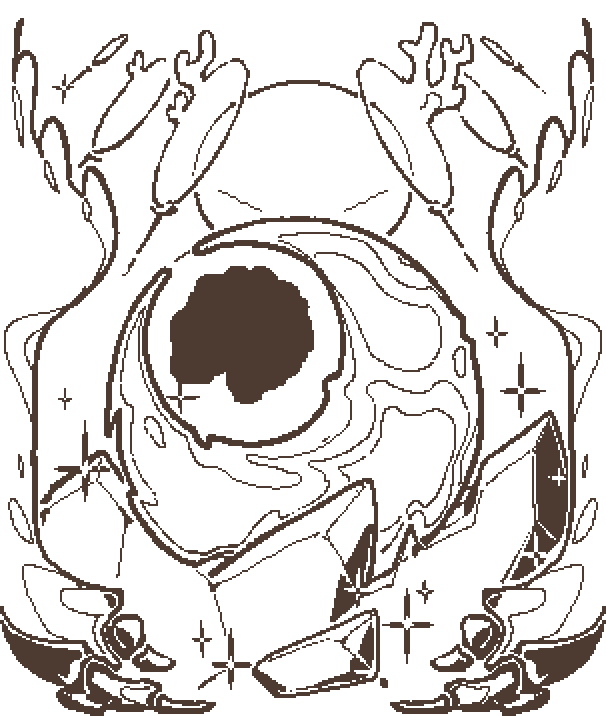
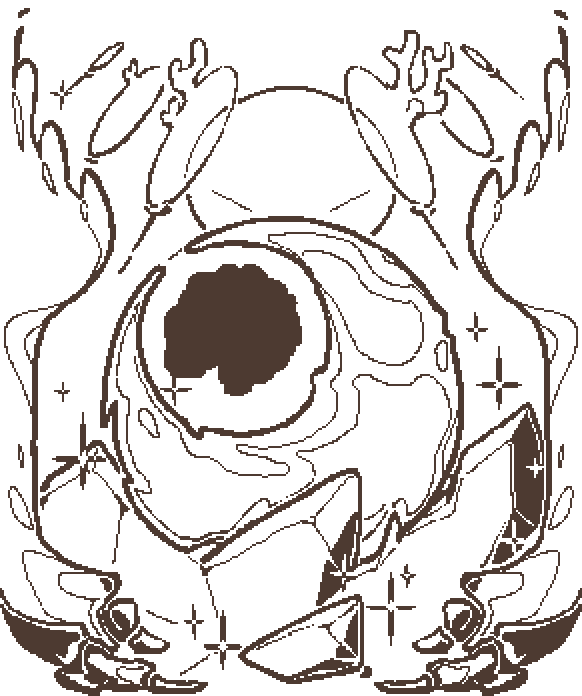
千气象章节

diff --git a/Content/CoraliteNotes/DashBowChapter/DashBowCollect.cs b/Content/CoraliteNotes/DashBowChapter/DashBowCollect.cs
@@ -1,0 +1,129 @@
+using Coralite.Content.Items.Icicle;
+using Coralite.Content.Items.Thunder;
+using Coralite.Content.Items.ThyphionSeries;
+using Coralite.Core;
+using Coralite.Core.Attributes;
+using Coralite.Helpers;
+using Microsoft.Xna.Framework.Graphics;
+using Terraria;
+using Terraria.ModLoader.IO;
+using static Terraria.ModLoader.ModContent;
+
+namespace Coralite.Content.CoraliteNotes.DashBowChapter
+{
+    [AutoLoadTexture(Path = AssetDirectory.NoteWeapons)]
+    public class DashBowCollect : CollectionPage
+    {
+        public static bool[] Unlocks = new bool[(int)DashBows.Count];
+
+        public static ATex Test { get; private set; }
+        //public static ATex LandOfTheLustrousCollectButton { get; private set; }
+        //public static ATex LandOfTheLustrousCollectButtonLight { get; private set; }
+
+        public enum DashBows
+        {
+            Afterglow,
+            TremblingBow,
+            FarAwaySky,
+            IcicleBow,
+            Turbulence,
+            RadiantSun,
+            FullMoon,
+            PlasmaBow,
+            HorizonArc,
+            SeismicWave,
+
+            ReversedFlash,
+            Glaciate,
+            Solunar,
+            Aurora,
+
+            Thyphion,
+            Count,
+        }
+
+        public override void Recalculate()
+        {
+            RemoveAllChildren();
+            AddImages();
+
+            base.Recalculate();
+        }
+
+        public void AddImages()
+        {
+            int y = -400;
+            Vector2 center = new Vector2(PageWidth / 2, PageHeight / 2 - 80);
+
+            NewImage<Afterglow>(center + new Vector2(-16, 310), null
+                , DashBows.Afterglow, CollectImage.LockIconType.Small);
+            NewImage<TremblingBow>(center + new Vector2(152, 285), Condition.DownedEyeOfCthulhu
+                , DashBows.TremblingBow, CollectImage.LockIconType.Small);
+            NewImage<FarAwaySky>(center + new Vector2(-127, 312), Condition.DownedEowOrBoc
+                , DashBows.FarAwaySky, CollectImage.LockIconType.Small);
+            NewImage<IcicleBow>(center + new Vector2(57, 312), Condition.DownedEowOrBoc
+                , DashBows.IcicleBow, CollectImage.LockIconType.Small);
+            NewImage<Turbulence>(center + new Vector2(194, 237), Condition.DownedSkeletron
+                , DashBows.Turbulence, CollectImage.LockIconType.Small);
+            NewImage<RadiantSun>(center + new Vector2(-230, -2), Condition.Hardmode
+                , DashBows.RadiantSun, CollectImage.LockIconType.Small);
+            NewImage<FullMoon>(center + new Vector2(250, -104), Condition.DownedQueenSlime
+                , DashBows.FullMoon, CollectImage.LockIconType.Small);
+            NewImage<PlasmaBow>(center + new Vector2(-208, 254), Condition.DownedMechBossAll
+                , DashBows.PlasmaBow, CollectImage.LockIconType.Small);
+            NewImage<HorizonArc>(center + new Vector2(-160, -52), Condition.DownedPlantera
+                , DashBows.HorizonArc, CollectImage.LockIconType.Small);
+            NewImage<SeismicWave>(center + new Vector2(244, 4), Condition.DownedMartians
+                , DashBows.SeismicWave, CollectImage.LockIconType.Small);
+            NewImage<ReverseFlash>(center + new Vector2(92, -40), Condition.DownedNebulaPillar
+                , DashBows.ReversedFlash, CollectImage.LockIconType.Small);
+            NewImage<Glaciate>(center + new Vector2(92, 58), Condition.DownedNebulaPillar
+                , DashBows.Glaciate, CollectImage.LockIconType.Small);
+            NewImage<Solunar>(center + new Vector2(-100, 208), Condition.DownedMoonLord
+                , DashBows.Solunar);
+            NewImage<Aurora>(center + new Vector2(108, 180), Condition.DownedMoonLord
+                , DashBows.Aurora);
+
+            NewImage<Thyphion>(center+new Vector2(-57,2), CoraliteConditions.DownedNightmarePlantera
+                , DashBows.Thyphion, CollectImage.LockIconType.Big, 1.75f);
+
+            //var button = new CollectButton(LandOfTheLustrousCollectButton, LandOfTheLustrousCollectButtonLight
+            //    , new Vector2(0, -10), ItemType<LandOfTheLustrousRelic>(), Unlocks, CoraliteNoteSystem.RewardType.LandOfTheLustrous);
+            //button.ItemPosOffset = new Vector2(0, -10);
+            //button.SetCenter(new Vector2(PageWidth / 2, 196));
+            //Append(button);
+        }
+
+        public void NewImage<T>(Vector2 pos, Condition condition, DashBows type
+            , CollectImage.LockIconType lockType = CollectImage.LockIconType.Middle, float scale = 1f) where T : ModItem
+        {
+            var button = new CollectImage(ItemType<T>(), condition, Unlocks, (int)type, scale, lockType);
+            button.SetCenter(pos);
+            Append(button);
+        }
+
+        public static void Unlock(DashBows type)
+            => Unlocks[(int)type] = true;
+
+        public static void Save(TagCompound tag)
+        {
+            tag.SaveBools(Unlocks, "DashBowUnlock");
+        }
+
+        public static void Load(TagCompound tag)
+        {
+            tag.LoadBools(Unlocks, "DashBowUnlock");
+        }
+
+        protected override void DrawSelf(SpriteBatch spriteBatch)
+        {
+            Test.Value.QuickCenteredDraw(spriteBatch, Center);
+
+            DrawCollectTip(spriteBatch, Unlocks);
+
+            Vector2 pos = PageTop + new Vector2(0, 132);
+            DrawCollectText(spriteBatch, Unlocks, pos + new Vector2(7, -15));
+            DrawCollectProgress(spriteBatch, Unlocks, pos + new Vector2(0, 15));
+        }
+    }
+}

diff --git a/Content/CoraliteNotes/LandOfTheLustrousChapter/LandOfTheLustrousCollect.cs b/Content/CoraliteNotes/LandOfTheLustrousChapter/LandOfTheLustrousCollect.cs
@@ -52,40 +52,40 @@ namespace Coralite.Content.CoraliteNotes.LandOfTheLustrousChapter
             int y = -400;
             Vector2 center = new Vector2(PageWidth / 2, PageHeight / 2 - 80);
 
-            NewImage<PyropeCrown>(center + new Vector2(-10, 310), null
-                , GemWeapons.PyropeCrown, CollectImage.LockIconType.Small,1.2f);
-            NewImage<AmethystNecklace>(center + new Vector2(164, 285), Condition.DownedEyeOfCthulhu
-                , GemWeapons.AmethystNecklace, CollectImage.LockIconType.Small, 1.2f);
-            NewImage<AquamarineBracelet>(center + new Vector2(-132, 315), Condition.DownedEowOrBoc
-                , GemWeapons.AquamarineBracelet, CollectImage.LockIconType.Small, 1.2f);
-            NewImage<PinkDiamondRose>(center + new Vector2(202, 239), Condition.DownedSkeletron
-                , GemWeapons.PinkDiamondRose, CollectImage.LockIconType.Small, 1.2f);
-            NewImage<ZumurudRing>(center + new Vector2(-244, -6), Condition.Hardmode
+            NewImage<PyropeCrown>(center + new Vector2(-16, 310), null
+                , GemWeapons.PyropeCrown, CollectImage.LockIconType.Small,1.25f);
+            NewImage<AmethystNecklace>(center + new Vector2(152, 285), Condition.DownedEyeOfCthulhu
+                , GemWeapons.AmethystNecklace, CollectImage.LockIconType.Small, 1.3f);
+            NewImage<AquamarineBracelet>(center + new Vector2(-127, 312), Condition.DownedEowOrBoc
+                , GemWeapons.AquamarineBracelet, CollectImage.LockIconType.Small, 1.3f);
+            NewImage<PinkDiamondRose>(center + new Vector2(194, 237), Condition.DownedSkeletron
+                , GemWeapons.PinkDiamondRose, CollectImage.LockIconType.Small, 1.3f);
+            NewImage<ZumurudRing>(center + new Vector2(-230, -2), Condition.Hardmode
                 , GemWeapons.ZumurudRing, CollectImage.LockIconType.Small, 1.3f);
-            NewImage<PearlBrooch>(center + new Vector2(260, -64), Condition.DownedQueenSlime
-                , GemWeapons.PearlBrooch, CollectImage.LockIconType.Small, 1.2f);
-            NewImage<RubyScepter>(center + new Vector2(-216, 254), Condition.DownedMechBossAll
+            NewImage<PearlBrooch>(center + new Vector2(250, -54), Condition.DownedQueenSlime
+                , GemWeapons.PearlBrooch, CollectImage.LockIconType.Small, 1.3f);
+            NewImage<RubyScepter>(center + new Vector2(-208, 254), Condition.DownedMechBossAll
                 , GemWeapons.RubyScepter, CollectImage.LockIconType.Small, 1.2f);
-            NewImage<PeridotTalisman>(center + new Vector2(-270, -60), Condition.DownedPlantera
+            NewImage<PeridotTalisman>(center + new Vector2(-260, -52), Condition.DownedPlantera
                 , GemWeapons.PeridotTalisman, CollectImage.LockIconType.Small, 1.2f);
-            NewImage<SapphireHairpin>(center + new Vector2(252, -7), Condition.DownedMartians
+            NewImage<SapphireHairpin>(center + new Vector2(244, 4), Condition.DownedMartians
                 , GemWeapons.SapphireHairpin, CollectImage.LockIconType.Small, 1.2f);
-            NewImage<TourmalineMonoclastic>(center + new Vector2(98, 54), Condition.DownedNebulaPillar
-                , GemWeapons.TourmalineMonoclastic, CollectImage.LockIconType.Small);
-            NewImage<TopazMirror>(center + new Vector2(-100, 234), Condition.DownedMoonLord
-                , GemWeapons.TopazMirror);
-            NewImage<ZirconGrail>(center + new Vector2(110, 182), Condition.DownedMoonLord
-                , GemWeapons.ZirconGrail);
-            NewImage<Phosphophyllite>(center + new Vector2(12, 388), CoraliteConditions.DownedNightmarePlantera
+            NewImage<TourmalineMonoclastic>(center + new Vector2(92, 58), Condition.DownedNebulaPillar
+                , GemWeapons.TourmalineMonoclastic, CollectImage.LockIconType.Small,1.1f);
+            NewImage<TopazMirror>(center + new Vector2(-100, 228), Condition.DownedMoonLord
+                , GemWeapons.TopazMirror,scale:1.1f);
+            NewImage<ZirconGrail>(center + new Vector2(108, 180), Condition.DownedMoonLord
+                , GemWeapons.ZirconGrail,scale:1.35f);
+            NewImage<Phosphophyllite>(center + new Vector2(12, 382), CoraliteConditions.DownedNightmarePlantera
                 , GemWeapons.Phosphophyllite, CollectImage.LockIconType.Small, 1.3f);
 
-            NewImage<LandOfTheLustrous>(center+new Vector2(-60,56), CoraliteConditions.DownedNightmarePlantera
+            NewImage<LandOfTheLustrous>(center+new Vector2(-57,62), CoraliteConditions.DownedNightmarePlantera
                 , GemWeapons.LandOfTheLustrous, CollectImage.LockIconType.Big, 2);
 
             var button = new CollectButton(LandOfTheLustrousCollectButton, LandOfTheLustrousCollectButtonLight
                 , new Vector2(0, -10), ItemType<LandOfTheLustrousRelic>(), Unlocks, CoraliteNoteSystem.RewardType.LandOfTheLustrous);
             button.ItemPosOffset = new Vector2(0, -10);
-            button.SetCenter(new Vector2(PageWidth / 2, 188));
+            button.SetCenter(new Vector2(PageWidth / 2, 196));
             Append(button);
         }
 
@@ -116,7 +116,7 @@ namespace Coralite.Content.CoraliteNotes.LandOfTheLustrousChapter
 
             DrawCollectTip(spriteBatch, Unlocks);
 
-            Vector2 pos = PageTop + new Vector2(0, 120);
+            Vector2 pos = PageTop + new Vector2(0, 132);
             DrawCollectText(spriteBatch, Unlocks, pos + new Vector2(7, -15));
             DrawCollectProgress(spriteBatch, Unlocks, pos + new Vector2(0, 15));
         }

diff --git a/Content/CoraliteNotes/CoraliteNoteSystem.cs b/Content/CoraliteNotes/CoraliteNoteSystem.cs
@@ -33,6 +33,7 @@ namespace Coralite.Content.CoraliteNotes
             FlyingShield,
             FlowerGun,
             LandOfTheLustrous,
+            DashBow,
 
             Count,
         }
@@ -71,6 +72,7 @@ namespace Coralite.Content.CoraliteNotes
             FlyingShieldChapter.FlyingShieldCollect.Save(tag);
             FlowerGunChapter.FlowerGunCollect.Save(tag);
             LandOfTheLustrousChapter.LandOfTheLustrousCollect.Save(tag);
+            DashBowChapter.DashBowCollect.Save(tag);
         }
 
         public override void OnWorldLoad()
@@ -79,6 +81,7 @@ namespace Coralite.Content.CoraliteNotes
             Array.Fill(FlyingShieldChapter.FlyingShieldCollect.Unlocks, false);
             Array.Fill(FlowerGunChapter.FlowerGunCollect.Unlocks, false);
             Array.Fill(LandOfTheLustrousChapter.LandOfTheLustrousCollect.Unlocks, false);
+            Array.Fill(DashBowChapter.DashBowCollect.Unlocks, false);
         }
 
         public override void LoadWorldData(TagCompound tag)
@@ -87,6 +90,7 @@ namespace Coralite.Content.CoraliteNotes
             FlyingShieldChapter.FlyingShieldCollect.Load(tag);
             FlowerGunChapter.FlowerGunCollect.Load(tag);
             LandOfTheLustrousChapter.LandOfTheLustrousCollect.Load(tag);
+            DashBowChapter.DashBowCollect.Load(tag);
         }
     }
 }

diff --git a/Content/CoraliteNotes/DashBowChapter/DashBowPage.cs b/Content/CoraliteNotes/DashBowChapter/DashBowPage.cs
@@ -1,0 +1,34 @@
+using Coralite.Core;
+using Coralite.Core.Attributes;
+using Coralite.Helpers;
+using Microsoft.Xna.Framework.Graphics;
+using Terraria.Localization;
+
+namespace Coralite.Content.CoraliteNotes.DashBowChapter
+{
+    [AutoLoadTexture(Path = AssetDirectory.NoteWeapons)]
+    public class DashBowPage : KnowledgePage
+    {
+        public static LocalizedText Title { get; private set; }
+        public static LocalizedText Description { get; private set; }
+
+        public static ATex DashBow { get; private set; }
+
+        public override void OnInitialize()
+        {
+            Title = this.GetLocalization(nameof(Title));
+            Description = this.GetLocalization(nameof(Description));
+        }
+
+        protected override void DrawSelf(SpriteBatch spriteBatch)
+        {
+            DrawTitleH1(spriteBatch, Title, new Color(0, 228, 205));
+            DrawParaNormal(spriteBatch, Description, Position.Y + TitleHeight, out _);
+
+            Texture2D tex = DashBow.Value;
+
+            //绘制图2
+            tex.QuickBottomDraw(spriteBatch, Bottom - new Vector2(0, 10));
+        }
+    }
+}

diff --git a/Content/GlobalItems/CoraliteGlobalItem.cs b/Content/GlobalItems/CoraliteGlobalItem.cs
@@ -1,3 +1,4 @@
+using Coralite.Content.CoraliteNotes.DashBowChapter;
 using Coralite.Content.CoraliteNotes.FlowerGunChapter;
 using Coralite.Content.Items.Materials;
 using Coralite.Content.Items.Misc_Melee;
@@ -320,6 +321,8 @@ namespace Coralite.Content.GlobalItems
             CoralCatWorldTransForm(item);
             if (item.useAmmo == AmmoID.Bullet)
                 KnowledgeSystem.CheckForUnlock<FlowerGunKnowledge>(player.Center, Color.Red);
+            else if (item.useAmmo == AmmoID.Arrow)
+                KnowledgeSystem.CheckForUnlock<DashBowKnowledge>(player.Center, new Color(0,228,205));
         }
 
         public override void Update(Item item, ref float gravity, ref float maxFallSpeed)

diff --git a/Content/CoraliteNotes/Readfragment/FragmentPage4.cs b/Content/CoraliteNotes/Readfragment/FragmentPage4.cs
@@ -53,6 +53,7 @@ namespace Coralite.Content.CoraliteNotes.Readfragment
 
             SlotGrid.Add(new KnowledgeButten<FlyingShieldChapter.FlyingShieldKnowledge>(KnowledgeButtonType.Normal));
             SlotGrid.Add(new KnowledgeButten<FlowerGunChapter.FlowerGunKnowledge>(KnowledgeButtonType.Normal));
+            SlotGrid.Add(new KnowledgeButten<DashBowChapter.DashBowKnowledge>(KnowledgeButtonType.Normal));
             SlotGrid.Add(new KnowledgeButten<LandOfTheLustrousChapter.LandOfTheLustrousKnowledge>(KnowledgeButtonType.Normal));
         }
 

diff --git a/Content/CoraliteNotes/DashBowChapter/GroupLandOfTheLustrous.cs b/Content/CoraliteNotes/DashBowChapter/GroupLandOfTheLustrous.cs
@@ -1,0 +1,19 @@
+using Coralite.Content.UI.BookUI;
+using Coralite.Core;
+
+namespace Coralite.Content.CoraliteNotes.DashBowChapter
+{
+    public class GroupDashBowChapter : UIPageGroup
+    {
+        public override bool CanShowInBook => CoraliteContent.GetKKnowledge<DashBowKnowledge>().Unlock;
+
+        public override void InitPages()
+        {
+            Pages =
+                [
+                    new DashBowPage(),
+                    new DashBowCollect(),
+                ];
+        }
+    }
+}

diff --git a/Content/CoraliteNotes/CoraliteNotePanel.cs b/Content/CoraliteNotes/CoraliteNotePanel.cs
@@ -33,6 +33,7 @@ namespace Coralite.Content.CoraliteNotes
 
                     new FlyingShieldChapter.GroupFlyingShield(),
                     new FlowerGunChapter.GroupFlowerGun(),
+                    new DashBowChapter.GroupDashBowChapter(),
                     new LandOfTheLustrousChapter.GroupLandOfTheLustrous(),
                 ];
         }

diff --git a/Content/CoraliteNotes/DashBowChapter/DashBowKnowledge.cs b/Content/CoraliteNotes/DashBowChapter/DashBowKnowledge.cs
@@ -1,0 +1,9 @@
+using Coralite.Core.Systems.KeySystem;
+
+namespace Coralite.Content.CoraliteNotes.DashBowChapter
+{
+    public class DashBowKnowledge : KeyKnowledge
+    {
+        public override int FirstPageInCoraliteNote => CoraliteNoteUIState.BookPanel.GetPageIndex<DashBowPage>();
+    }
+}

diff --git a/Content/CoraliteNotes/CoraliteNoteUIState.cs b/Content/CoraliteNotes/CoraliteNoteUIState.cs
@@ -66,6 +66,7 @@ namespace Coralite.Content.CoraliteNotes
         public override void Recalculate()
         {
             //BookPanel = new();
+            //RemoveAllChildren();
             //Init();
             //BookPanel.SetPosition();
             //BookPanel.InitSize();
